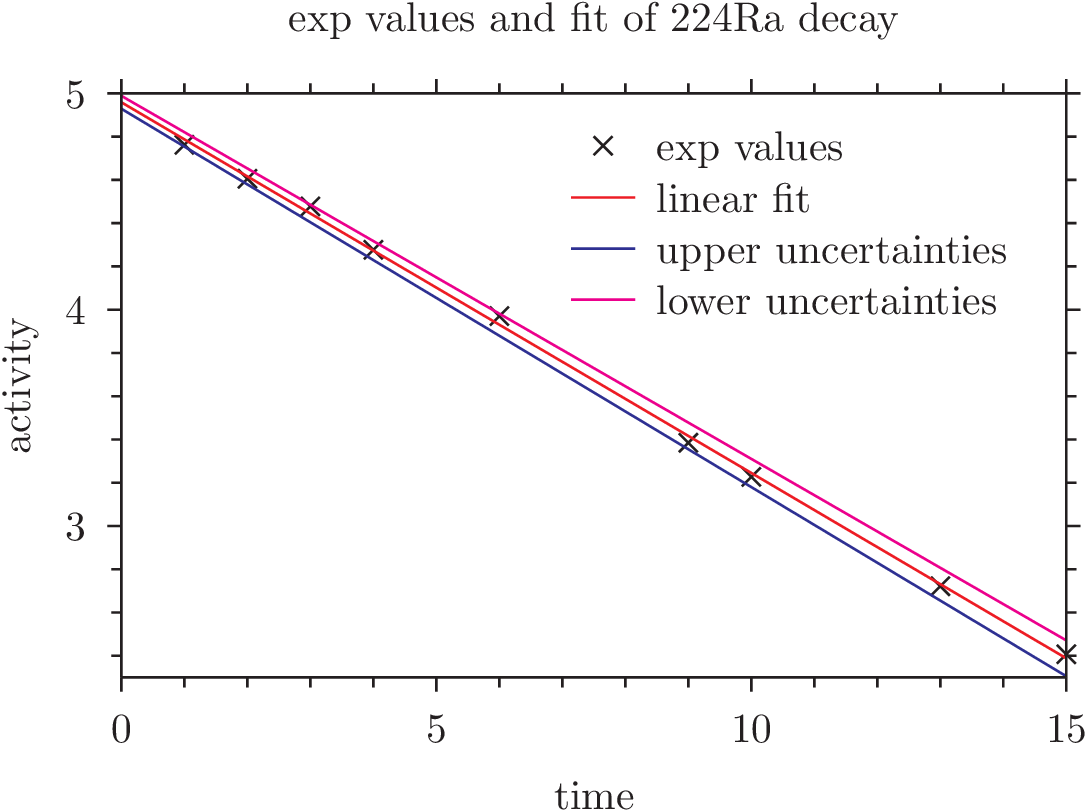
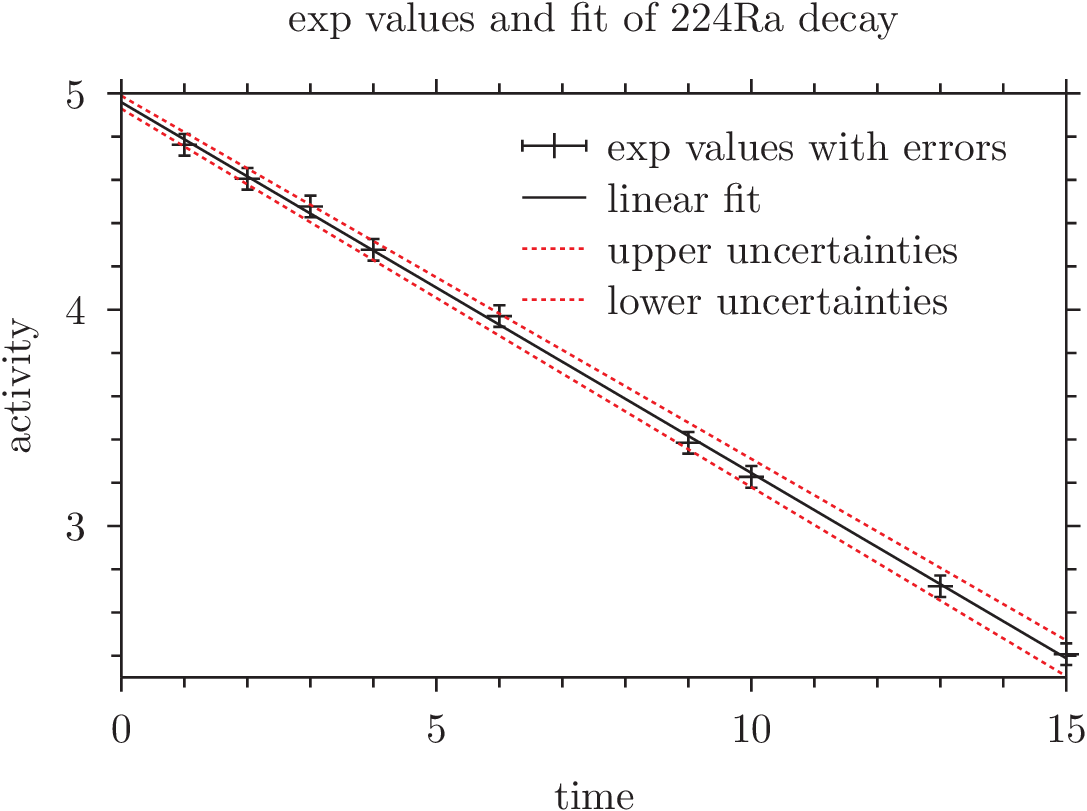
Initial push

diff --git a/Homework/least-squares/main.c b/Homework/least-squares/main.c
@@ -81,7 +81,7 @@ int main(){
 		ts = ts + step_size;
 	}
 	for(int i = 0; i < 9; i++){
-		fprintf(exp_vals,"%g %g\n",gsl_vector_get(t,i),gsl_vector_get(logy,i));
+		fprintf(exp_vals,"%g %g %g\n",gsl_vector_get(t,i),gsl_vector_get(logy,i), gsl_vector_get(dlogy,i));
 
 	}
 	//Clearing vars and closing files
